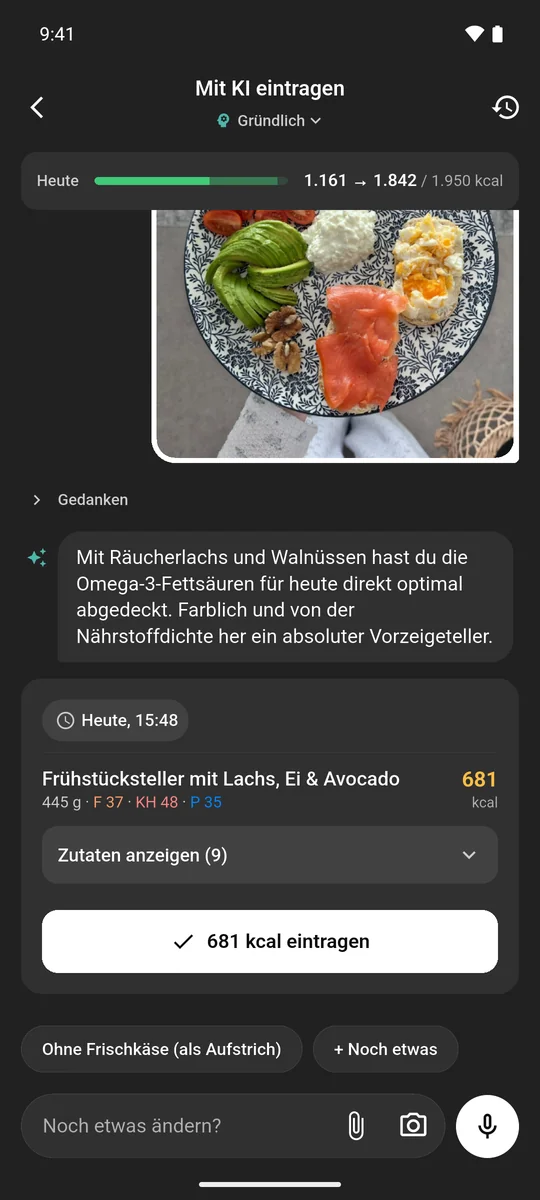
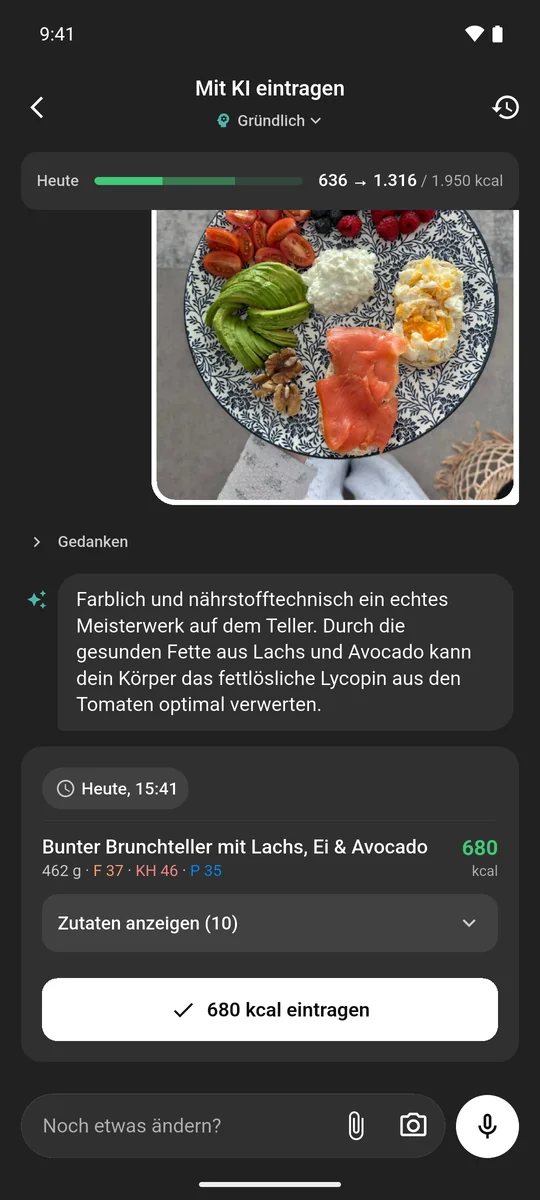
KI-Ergebnis ohne Korrektur-Chips und Annahme-Zeile
Die App zeigt unter dem KI-Ergebnis keine Korrektur-Chips und keine
"Annahme"-Zeile mehr (ui-redesign 41a265ae). Die Motive mit dem
Foto-Ergebnis (2, untenlinks, hell und dunkel) und die Store-Bilder 01
und 03 der Galerie sind mit diesem Stand neu aufgenommen, die Alt-Texte
nennen die neuen Werte.

Changed region(s): [[0.0593, 0.4008, 0.9481, 0.8942], [0.2667, 0.1233, 0.9778, 0.4317], [0.0593, 0.4317, 0.0889, 0.5242]]

diff --git a/src/modules/home/_components/appGallery/index.tsx b/src/modules/home/_components/appGallery/index.tsx
@@ -5,9 +5,9 @@ import { getTrackedAppLink, trackAppStoreClick } from "utils/trackingLinks";
 // public/screenshots/store/. Erst live schalten, wenn sie auch im App Store hängen.
 // Die Headline ist Teil der Grafik, alt beschreibt den Inhalt.
 const screens = [
-  { file: "01_foto", alt: "Ein fotografierter Frühstücksteller mit Lachs, Ei und Avocado, von der KI mit 705 kcal erkannt" },
+  { file: "01_foto", alt: "Ein fotografierter Frühstücksteller mit Lachs, Ei und Beeren, von der KI mit 602 kcal erkannt" },
   { file: "02_home", alt: "Tagesübersicht: 1.868 von 1.950 kcal gegessen, 82 kcal übrig, dazu Fett, Kohlenhydrate, Ballaststoffe, Eiweiß und Salz" },
-  { file: "03_text", alt: "Per Text eingetragen: 1 Apfel und 250 ml Kaffee mit Hafermilch, zusammen 115 kcal" },
+  { file: "03_text", alt: "Per Text eingetragen: 1 Apfel und 250 ml Kaffee mit Hafermilch, zusammen 121 kcal" },
   { file: "04_vorschlaege", alt: "KI-Vorschlag für den Rest des Tages: Hähnchenpfanne mit buntem Gemüse und Basmati-Reis, 494 kcal" },
   { file: "05_gewicht", alt: "Gewichtsverlauf seit Juli: 78,2 kg, 6,2 kg weniger, Ziel 75 kg" },
   { file: "06_naehrwerte", alt: "Nährwerte der Woche: Eiweiß im Schnitt 110 g pro Tag, dazu Fett, Kohlenhydrate, Ballaststoffe und Salz" },
